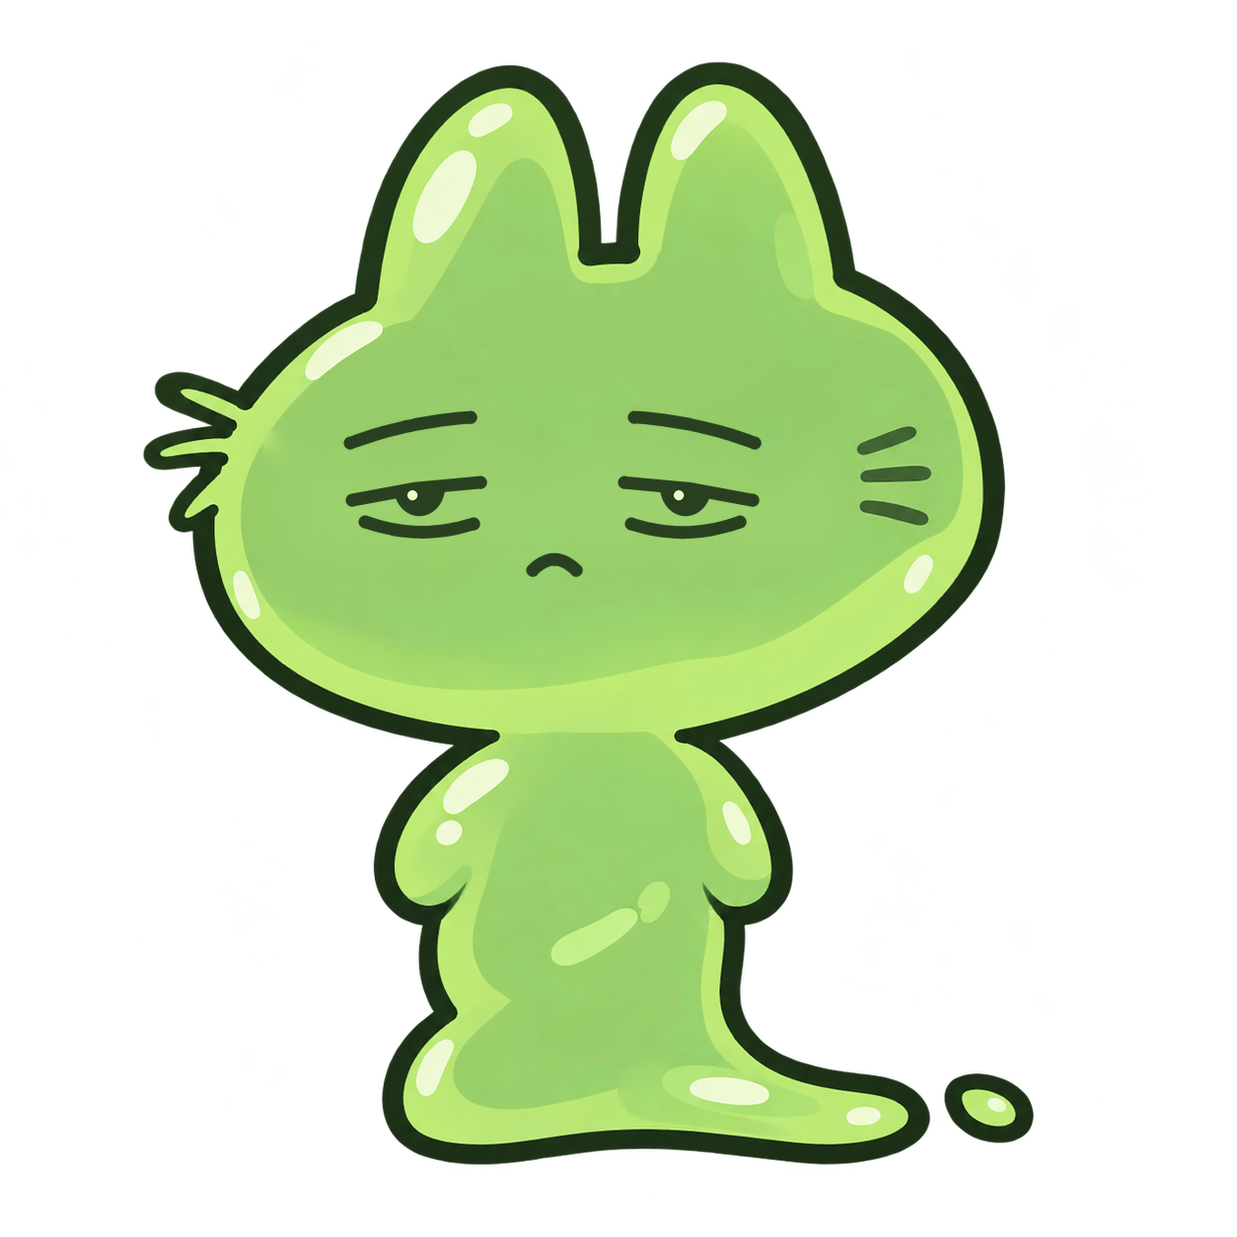
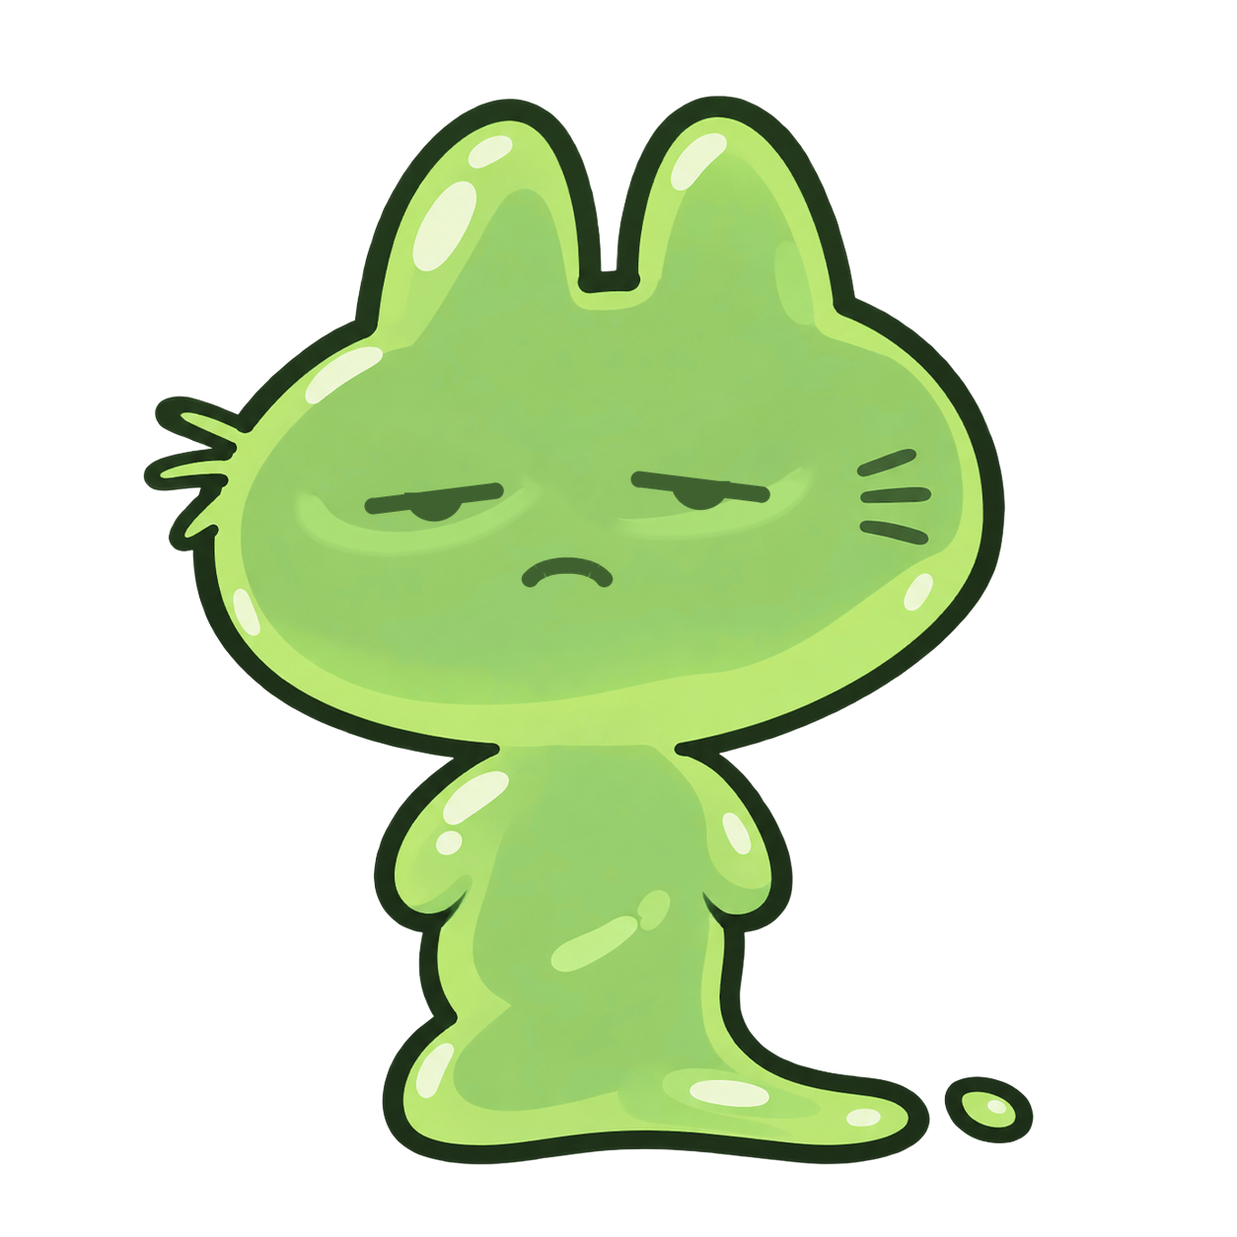
fixing sound volume

diff --git a/core/src/main/java/io/github/game/GameWorld.java b/core/src/main/java/io/github/game/GameWorld.java
@@ -202,7 +202,7 @@ public class GameWorld {
             fish.update(delta);
 
             if (fish.getBounds().overlaps(catchBounds)) {
-                fishSound.play();
+                res.fishSound.play(0.1f);
                 score += scoreBoost.apply(fish.getScoreValue());
                 fishes.removeIndex(i);
             } else if (fish.getY() < -fish.getBounds().height) {
